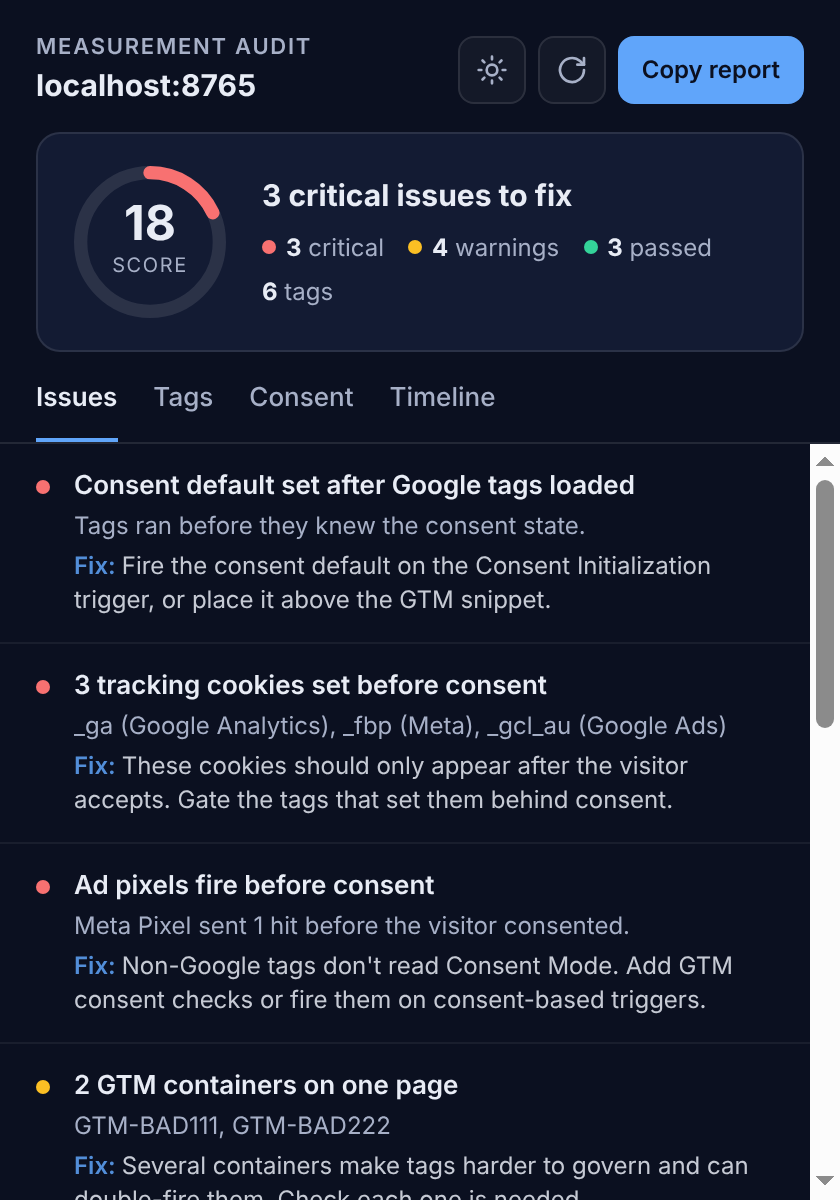
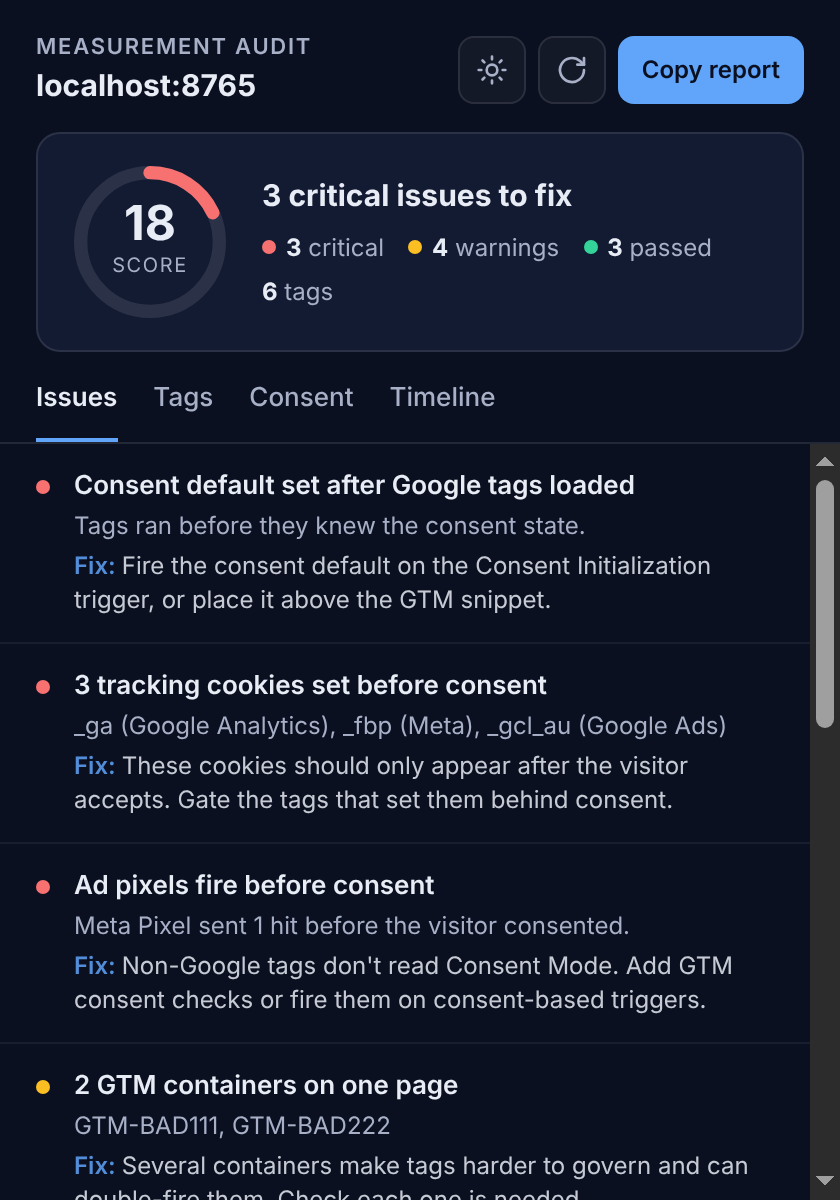
Match native scrollbars to the popup theme
Set color-scheme on the light and dark themes so scrollbars and form
controls follow dark mode. Refresh the README screenshots.

Claude-Session: https://claude.ai/code/session_01QMtQNKJ4JR558U2j48LzYk

Changed region(s): [[0.9595, 0.37, 1.0, 1.0]]

diff --git a/extension/popup.css b/extension/popup.css
@@ -1,9 +1,11 @@
 :root{
+  color-scheme:light;
   --bg:#ffffff;--surface:#f8fafc;--line:#e2e8f0;--line2:#f1f5f9;--text:#0f172a;--muted:#475569;--soft:#64748b;
   --accent:#2563eb;--accent-text:#ffffff;--fail:#dc2626;--warn:#d97706;--pass:#059669;--info:#2563eb;
   --fail-bg:#fef2f2;--warn-bg:#fffbeb;--pass-bg:#ecfdf5;--info-bg:#eff6ff;--btn:#ffffff;--btn-hover:#f1f5f9;
 }
 [data-theme="dark"]{
+  color-scheme:dark;
   --bg:#0b1020;--surface:#131b33;--line:rgba(255,255,255,.1);--line2:rgba(255,255,255,.06);--text:#e8ecf5;--muted:#a7b0c7;--soft:#8b95ad;
   --accent:#60a5fa;--accent-text:#0b1020;--fail:#f87171;--warn:#fbbf24;--pass:#34d399;--info:#7dd3fc;
   --fail-bg:rgba(248,113,113,.12);--warn-bg:rgba(251,191,36,.12);--pass-bg:rgba(52,211,153,.12);--info-bg:rgba(125,211,252,.1);--btn:rgba(255,255,255,.04);--btn-hover:rgba(255,255,255,.1);
